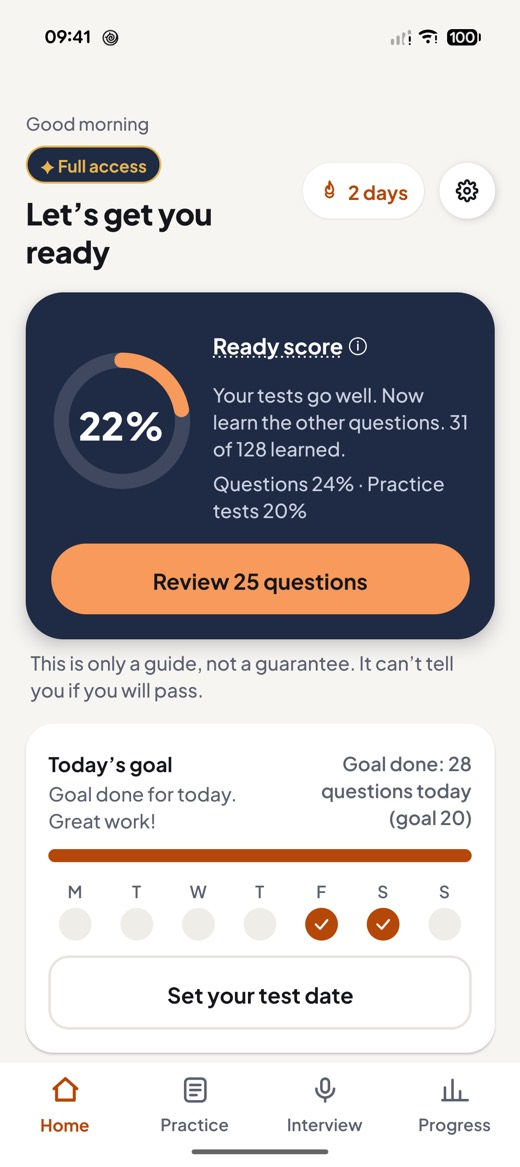
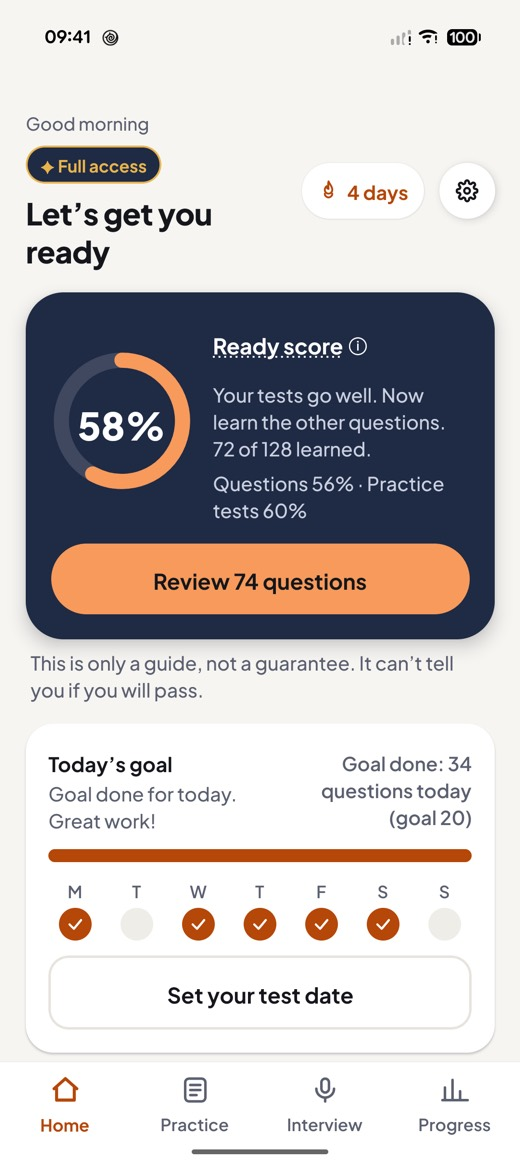
Publish site from citizenship-app@8818878

diff --git a/de/anleitung.html b/de/anleitung.html
@@ -27,6 +27,7 @@
 
 <h2 id="erster-start">Der erste Start</h2>
 <p>Sie brauchen kein Konto. Die App fragt Sie ein paar Dinge, Schritt für Schritt.</p>
+<figure class="shots"><img src="/img/anleitung/02-bundesland.jpg" alt="Liste „Ihr Bundesland“ mit Suchfeld und allen 16 Bundesländern." width="260" height="584" loading="lazy" decoding="async"><img src="/img/anleitung/05-step4.jpg" alt="Nach drei ersten Fragen: „3 von 3 richtig. Guter Start!“ und die Frage, wann Ihr Test ist." width="260" height="584" loading="lazy" decoding="async"><figcaption>Wählen Sie Ihr Bundesland. Dann beantworten Sie drei erste Fragen und sagen, wann Ihr Test ist.</figcaption></figure>
 <ol>
 <li><strong>Ein kurzer Hinweis.</strong> Citizenwise ist eine Lern-App. Sie ist nicht vom BAMF. Tippen Sie auf „Los geht’s“.</li>
 <li><strong>Ihr Bundesland.</strong> Im Test bekommen Sie 3 Fragen zu Ihrem Bundesland. Tippen Sie auf „Bundesland wählen“. Sie können in der Liste suchen, mit dem Namen oder dem Kürzel. Später wählen? Tippen Sie auf „Vorerst überspringen“. Sie können es dann in den Einstellungen wählen.</li>
@@ -43,6 +44,7 @@
 
 <h2 id="start">Start</h2>
 <p>Die Startseite zeigt, wie weit Sie sind und was Sie als Nächstes tun.</p>
+<figure class="shots"><img src="/img/anleitung/10-start.jpg" alt="Start: Lernstand, „70 Fragen wiederholen“ und das Ziel für heute." width="260" height="584" loading="lazy" decoding="async"><figcaption>Start zeigt Ihren Lernstand, den nächsten Schritt und Ihr Ziel für heute.</figcaption></figure>
 <ul>
 <li><strong>Oben:</strong> eine Begrüßung und die Tage bis zum Test, zum Beispiel „Test in 30 Tagen“. Oben rechts öffnet das Zahnrad die Einstellungen.</li>
 <li><strong>„Lernstand“:</strong> Der Ring zeigt eine Prozentzahl. Die Hälfte kommt aus den Fragen, die Sie gelernt haben. Die andere Hälfte kommt aus Ihren letzten 5 Probetests. Das ist nur ein Hinweis, keine Garantie für das Ergebnis im Test. Tippen Sie auf „Lernstand“, dann sehen Sie mehr.</li>
@@ -53,6 +55,7 @@
 
 <h2 id="ueben">Üben</h2>
 <p>Tippen Sie unten auf „Üben“. Oben finden Sie:</p>
+<figure class="shots"><img src="/img/anleitung/11-ueben.jpg" alt="Üben: „Alle Fragen üben“, „Wiederholen“, „Gemerkt“, „Anhören“ und die Themen mit Fortschritt." width="260" height="584" loading="lazy" decoding="async"><figcaption>Unter „Üben“ finden Sie alle Fragen, Wiederholen, Gemerkt, Anhören und die Themen.</figcaption></figure>
 <ul>
 <li><strong>„Alle Fragen üben“:</strong> alle Fragen der Reihe nach.</li>
 <li><strong>„Wiederholen“:</strong> die Fragen, die Sie heute noch einmal üben sollten. Die Zahl zeigt, wie viele. „Alles erledigt ✓“ heißt: Heute ist nichts fällig.</li>
@@ -75,6 +78,7 @@
 </ul>
 <h3>Fragen mit Bild</h3>
 <p>Einige Fragen haben im Test ein Bild.</p>
+<figure class="shots"><img src="/img/anleitung/12-frage.jpg" alt="Eine Bildfrage: „Welches Wappen gehört zum Freistaat Bayern?“ Die vier Bilder sind in Worten beschrieben." width="260" height="584" loading="lazy" decoding="async"><img src="/img/anleitung/13-antwort.jpg" alt="Die richtige Antwort ist grün markiert: „Richtig“, dann „Nächste Frage“." width="260" height="584" loading="lazy" decoding="async"><figcaption>Bei Bildfragen beschreibt die App jedes Bild in Worten. Nach Ihrer Antwort sehen Sie, ob sie richtig ist.</figcaption></figure>
 <ul>
 <li>Bei manchen Fragen beschreiben wir das Bild in Worten.</li>
 <li>Manche Bilder haben wir selbst gezeichnet. Die Nummern sind wie in der offiziellen Liste vom BAMF.</li>
@@ -85,6 +89,7 @@
 
 <h2 id="probetest">Probetest</h2>
 <p>Tippen Sie unten auf „Probetest“ (das Stern-Symbol). Dann auf „Probetest starten“. Der Probetest ist wie der echte Test:</p>
+<figure class="shots"><img src="/img/anleitung/14-probetest-tab.jpg" alt="Probetest: 33 Fragen, 60 Minuten, bestanden ab 17 richtigen Antworten; Knopf „Probetest starten“." width="260" height="584" loading="lazy" decoding="async"><img src="/img/anleitung/15-probetest-frage.jpg" alt="Eine Frage im Probetest mit Zeit, Übersicht und vier Antworten." width="260" height="584" loading="lazy" decoding="async"><figcaption>Der Probetest läuft wie der echte Test: 33 Fragen, 60 Minuten, bestanden ab 17.</figcaption></figure>
 <ul>
 <li>33 Fragen, 60 Minuten. Oben sehen Sie die Zeit, die noch bleibt.</li>
 <li>Bestanden ab 17 richtigen Antworten.</li>
@@ -102,6 +107,7 @@
 
 <h2 id="fortschritt">Fortschritt</h2>
 <p>Tippen Sie unten auf „Fortschritt“. Sie sehen:</p>
+<figure class="shots"><img src="/img/anleitung/16-fortschritt.jpg" alt="Fortschritt: Fragen der letzten 7 Tage und richtige Antworten der letzten 4 Wochen." width="260" height="584" loading="lazy" decoding="async"><figcaption>Ihr Fortschritt: die letzten 7 Tage und die letzten 4 Wochen.</figcaption></figure>
 <ul>
 <li><strong>„Letzte 7 Tage“:</strong> wie viele Fragen Sie an jedem Tag geübt haben.</li>
 <li><strong>„Richtige Antworten, letzte 4 Wochen“:</strong> wie Sie Woche für Woche besser werden.</li>
@@ -121,6 +127,7 @@
 
 <h2 id="uebersetzungen">Übersetzungen</h2>
 <p>Der Test ist auf Deutsch. Eine Übersetzung hilft aber, eine Frage zu verstehen. Übersetzungen sind kostenlos.</p>
+<figure class="shots"><img src="/img/anleitung/17-sprachen.jpg" alt="Liste „Übersetzen in“ mit Suche, Sprache des Handys, Türkçe, Arabisch, Ukrainisch und mehr." width="260" height="584" loading="lazy" decoding="async"><figcaption>Wählen Sie Ihre Sprache in den Einstellungen unter „Übersetzen in“.</figcaption></figure>
 <ol>
 <li>Öffnen Sie die Einstellungen. Tippen Sie auf „Übersetzen in“. Wählen Sie Ihre Sprache. Sie können in der Liste suchen.</li>
 <li>Tippen Sie beim Üben auf den Übersetzen-Knopf bei der Frage. Er zeigt das Wort „Übersetzen“ in Ihrer Sprache.</li>
@@ -133,6 +140,7 @@
 
 <h2 id="einstellungen">Einstellungen</h2>
 <p>Tippen Sie auf der Startseite oben rechts auf das Zahnrad. Hier können Sie ändern:</p>
+<figure class="shots"><span class="hl"><img src="/img/anleitung/10-start.jpg" alt="Startseite. Das Zahnrad oben rechts ist eingekreist: Tippen Sie darauf, um die Einstellungen zu öffnen." width="260" height="584" loading="lazy" decoding="async"><span class="ring" style="left:89.9%;top:14.2%;width:20%;aspect-ratio:1"></span></span><img src="/img/anleitung/18-textgroesse.jpg" alt="Textgröße von 90 % bis 160 % mit einer Beispielfrage." width="260" height="584" loading="lazy" decoding="async"><figcaption>Tippen Sie auf der Startseite auf das Zahnrad (eingekreist). Dort machen Sie die Schrift größer.</figcaption></figure>
 <ul>
 <li><strong>Ihr Bundesland:</strong> „Ihr Bundesland“ oder „Bundesland: … (ändern)“.</li>
 <li><strong>„Lern-Erinnerung“:</strong> Testtermin und tägliche Erinnerung.</li>

diff --git a/guide.html b/guide.html
@@ -50,7 +50,7 @@
 
 <h2 id="home">Home</h2>
 <p>Home shows how you are doing and what to do next.</p>
-<figure class="shots"><img src="/img/guide/01-home.jpg" alt="Home: Ready score ring, what to do next, and Today’s goal with the week’s days." width="260" height="584" loading="lazy" decoding="async"><figcaption>Home shows your Ready score, your next step and today’s goal.</figcaption></figure>
+<figure class="shots"><img src="/img/guide/01-home.jpg" alt="Home: Ready score 58%, Review 74 questions, and the streak of 4 days." width="260" height="584" loading="lazy" decoding="async"><figcaption>Home shows your Ready score, your next step and today’s goal.</figcaption></figure>
 <ul>
 <li><strong>Top:</strong> a greeting and the days until your interview, for example "Interview in 30 days". The gear icon at the top right opens Settings.</li>
 <li><strong>"Ready score":</strong> the ring shows a percent. Half of it comes from the questions you know. Half comes from your last 5 practice tests. It is only a guide. It can’t tell you if you will pass. Tap "Ready score" to read more.</li>
@@ -115,7 +115,7 @@
 
 <h2 id="progress">Progress</h2>
 <p>Tap the "Progress" tab. You see:</p>
-<figure class="shots"><img src="/img/guide/12-progress.jpg" alt="Progress: last 7 days chart, correct answers over 4 weeks, and badges." width="260" height="584" loading="lazy" decoding="async"><figcaption>Progress: your last 7 days, the last 4 weeks and your badges.</figcaption></figure>
+<figure class="shots"><img src="/img/guide/12-progress.jpg" alt="Progress: questions per day for the last 7 days, correct answers over 4 weeks, and badges." width="260" height="584" loading="lazy" decoding="async"><img src="/img/guide/12b-progress.jpg" alt="Badges you earned and your recent practice tests, passed in green." width="260" height="584" loading="lazy" decoding="async"><figcaption>Progress: your last 7 days, the last 4 weeks, your badges and your recent practice tests.</figcaption></figure>
 <ul>
 <li><strong>"Last 7 days":</strong> how many questions you did each day.</li>
 <li><strong>"Correct answers, last 4 weeks":</strong> how your answers get better week by week.</li>
@@ -150,7 +150,7 @@
 
 <h2 id="settings">Settings</h2>
 <p>Tap the gear icon at the top right of Home. In Settings you can change:</p>
-<figure class="shots"><img src="/img/guide/15-text-size.jpg" alt="Text size from 90% to 160% with a sample question, and the reading voice and speed." width="260" height="584" loading="lazy" decoding="async"><figcaption>Make the text bigger, and choose the reading voice and speed.</figcaption></figure>
+<figure class="shots"><span class="hl"><img src="/img/guide/01-home.jpg" alt="Home screen. The gear icon at the top right is circled: tap it to open Settings." width="260" height="584" loading="lazy" decoding="async"><span class="ring" style="left:89.8%;top:16.3%;width:20%;aspect-ratio:1"></span></span><img src="/img/guide/15-text-size.jpg" alt="Text size from 90% to 160% with a sample question, and the reading voice and speed." width="260" height="584" loading="lazy" decoding="async"><figcaption>Tap the gear (circled) on Home to open Settings. There you can make the text bigger and choose the reading voice and speed.</figcaption></figure>
 <ul>
 <li><strong>"Full access":</strong> on Android, a card at the top shows what Full access includes.</li>
 <li><strong>Your state:</strong> "Your state" or "State: … (change)".</li>
@@ -168,7 +168,7 @@
 
 <h2 id="full-access">Full access: what is free</h2>
 <p>Most of the app is free, with no ads and no account.</p>
-<figure class="shots"><img src="/img/guide/13-settings.jpg" alt="Settings with the Full access card and Restore purchases." width="260" height="584" loading="lazy" decoding="async"><figcaption>With Full access, Settings shows “Yours to keep” and “Restore purchases”.</figcaption></figure>
+<figure class="shots"><span class="hl"><img src="/img/guide/13-settings.jpg" alt="Settings with the Full access card. “Restore purchases” is circled." width="260" height="584" loading="lazy" decoding="async"><span class="ring pill" style="left:26.5%;top:40.3%;width:46%;height:5.6%"></span></span><figcaption>With Full access, Settings shows “Yours to keep”. Need it back on a new phone? Tap “Restore purchases” (circled).</figcaption></figure>
 <h3>Always free</h3>
 <ul>
 <li>Every civics question, what counts as correct, and its official source</li>

diff --git a/style.css b/style.css
@@ -5,3 +5,4 @@ main{max-width:720px;margin:0 auto;padding:32px 16px 64px}a{color:var(--accent)}
 nav{display:flex;gap:16px;flex-wrap:wrap;padding:16px;border-bottom:1px solid var(--line);max-width:720px;margin:0 auto}
 nav a{text-decoration:none;font-weight:600}.muted{color:var(--muted);font-size:14px}.note{border-left:3px solid var(--accent);padding:8px 12px;background:color-mix(in srgb,var(--accent) 8%,transparent)}
 figure.shots{display:flex;flex-wrap:wrap;gap:12px;justify-content:center;margin:20px 0}figure.shots img{width:min(240px,100%);height:auto;border-radius:20px;border:1px solid var(--line);box-shadow:0 2px 10px rgb(0 0 0/.08)}figure.shots figcaption{flex-basis:100%;text-align:center;color:var(--muted);font-size:14px}
+.hl{position:relative;display:inline-block;width:min(240px,100%);line-height:0}figure.shots .hl img{width:100%}.ring{position:absolute;transform:translate(-50%,-50%);border:4px solid #f79a5b;border-radius:50%;box-shadow:0 0 0 4px rgb(181 71 8/.35);animation:ring 1.6s ease-in-out infinite;pointer-events:none}.ring.pill{border-radius:999px}@keyframes ring{50%{box-shadow:0 0 0 10px rgb(181 71 8/.12)}}@media (prefers-reduced-motion:reduce){.ring{animation:none}}
